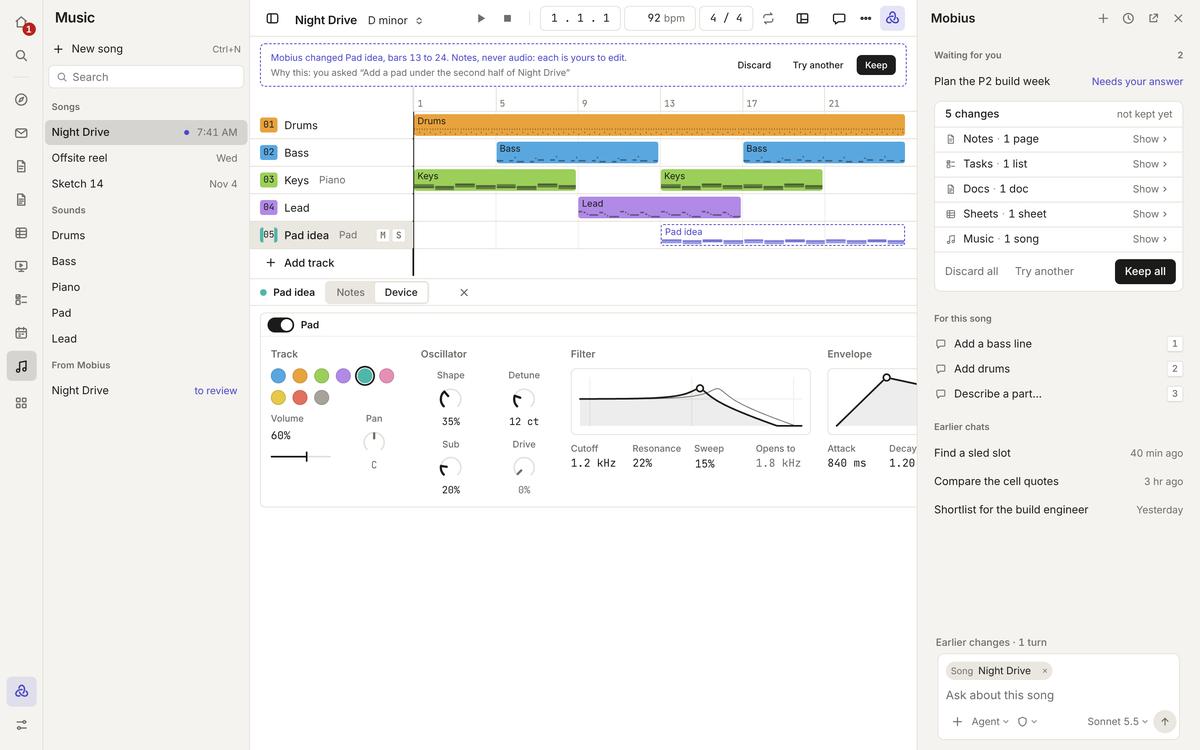
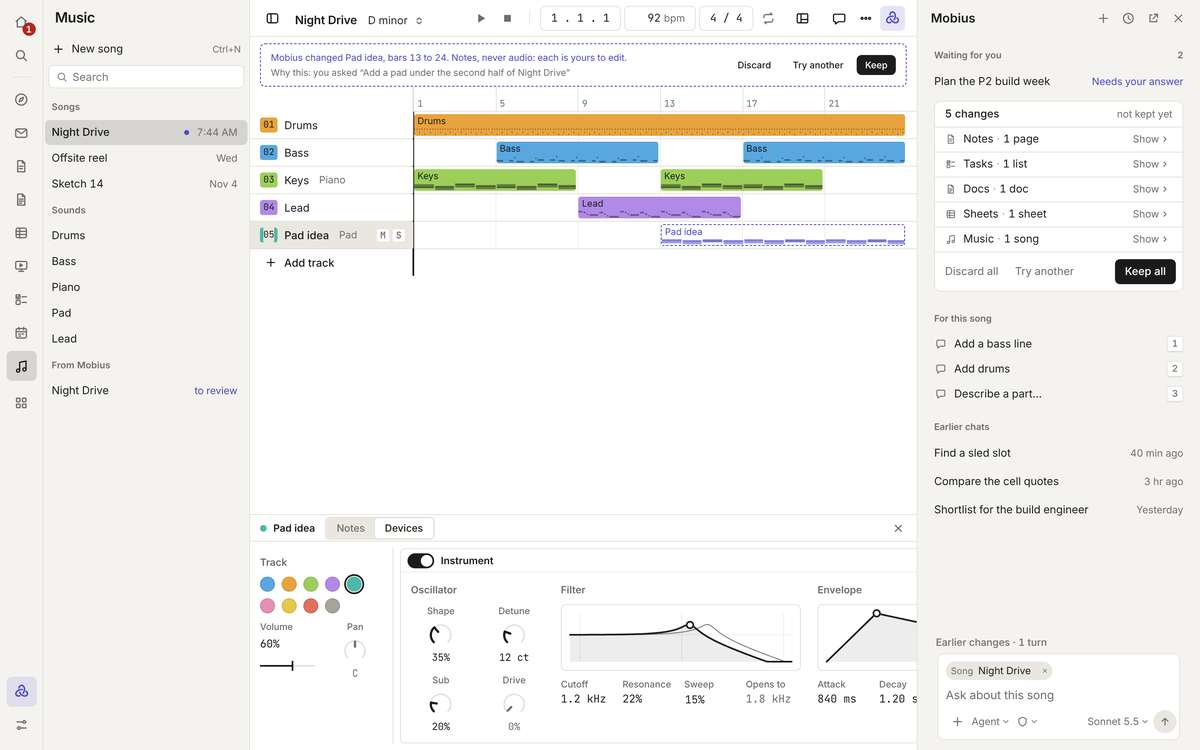
Music: design review fixes for the bottom area
Devices open at their row's height, close sits at the bar's end, the switch
reads Notes | Devices, the track's colour and level are their own strip ahead
of the instrument, and the instrument's switch bypasses it alone (instrumentOn).

Claude-Session: https://claude.ai/code/session_01VRGwo92y9AyxCvHYC61ZVd

diff --git a/apps/desktop/src/Studio.tsx b/apps/desktop/src/Studio.tsx
@@ -218,7 +218,7 @@ function EffectBlock({ effect, at, onChange, onRemove }: {
   );
 }
 
-const DETAIL_VIEWS = [{ value: 'notes', label: 'Notes' }, { value: 'device', label: 'Device' }] as const;
+const DETAIL_VIEWS = [{ value: 'notes', label: 'Notes' }, { value: 'device', label: 'Devices' }] as const;
 const DRUM_VIEWS = [{ value: 'notes', label: 'Notes' }, { value: 'steps', label: 'Steps' }] as const;
 /** The drums bottom to top, as pads and step rows read them: kick first. */
 const DRUMS_UP = [...DRUMS].reverse();
@@ -236,8 +236,8 @@ const KEY_CHOICES = KEYS.map((k) => ({ value: k, label: k }));
 const GRID_CHOICES = GRIDS.map((g) => ({ value: String(g.beats), label: g.label }));
 
 /**
- * The chosen track's devices, in the bottom area beside its notes (Shift+Tab switches): its instrument first (the
- * track's colour and level, then how it sounds), then its effects, left to right in the order the sound goes.
+ * The chosen track's devices, in the bottom area beside its notes (Shift+Tab switches): the track's own colour and
+ * level first, then its instrument, then its effects, left to right in the order the sound goes.
  */
 export function StudioDevice({ track, onTrack }: {
   track: Track | null;
@@ -250,22 +250,23 @@ export function StudioDevice({ track, onTrack }: {
   const setMany = (patch: Partial<Sound>, tag: string) => onTrack((t) => { if (t.instrument === 'drums') return; t.sound = { ...(t.sound ?? SOUND_DEFAULTS[t.instrument]), ...patch }; }, `sound:${tag}`);
   const [pad, setPad] = useState(0);
   const setKit = (k: keyof KitSound, v: number) => onTrack((t) => { if (t.instrument !== 'drums') return; t.kit = { ...(t.kit ?? KIT_DEFAULTS), [k]: v }; }, `kit:${k}`);
-  if (!track) return <div className="studio-device" aria-label="Device" role="region"><p className="studio-dev-note">Add a track from Sounds in the sidebar to set how it sounds.</p></div>;
+  if (!track) return <div className="studio-device" aria-label="Devices" role="region"><p className="studio-dev-note">Add a track from Sounds in the sidebar to set how it sounds.</p></div>;
   const fx = track.fx ?? [];
   return (
-    <div className="studio-device" aria-label="Device" role="region" style={{ '--tc': `var(--c-${track.color})` } as CSSProperties}>
-      {/* The instrument comes first in the row, as sound flows: its switch turns the whole track on or off. */}
-      <DeviceFrame className="studio-instrument" title={INSTRUMENT_NAMES[track.instrument]} index={0} on={!track.muted} onToggle={(on) => onTrack((t) => { t.muted = !on; })}
+    <div className="studio-device" aria-label="Devices" role="region" style={{ '--tc': `var(--c-${track.color})` } as CSSProperties}>
+      {/* The track's own settings lead the row: they belong to the track, whatever plays it. */}
+      <section className="studio-dev-section studio-track-strip" aria-label="Track">
+        <h4 className="studio-dev-head">Track</h4>
+        <Swatches label="Colour" value={track.color} colors={TRACK_COLOURS} names={COLOUR_NAMES} onChange={(c) => onTrack((t) => { t.color = c as TrackColour; })} />
+        <ParamGrid label="Level" columns={2}>
+          <ParamCell size="compact" label="Volume" value={track.volume} min={0} max={1} step={0.01} reset={0.8} format={(v) => `${Math.round(v * 100)}%`} onChange={(v) => onTrack((t) => { t.volume = v; }, 'volume')} />
+          <Knob label="Pan" value={track.pan} min={-1} max={1} step={0.01} reset={0} format={panText} onChange={(v) => onTrack((t) => { t.pan = v; }, 'pan')} />
+        </ParamGrid>
+      </section>
+      {/* Then the instrument, as sound flows: its switch bypasses it alone, as each effect's does (M mutes the track). */}
+      <DeviceFrame className="studio-instrument" title="Instrument" index={0} on={track.instrumentOn !== false} onToggle={(on) => onTrack((t) => { if (on) delete t.instrumentOn; else t.instrumentOn = false; })}
         actions={<Select inline quiet hideLabel label="Instrument" value={track.instrument} choices={INSTRUMENT_CHOICES} onChange={(i) => onTrack((t) => { t.instrument = i; delete t.sound; delete t.kit; delete t.pads; })} />}>
         <div className="studio-dev-cols">
-          <section className="studio-dev-section studio-dev-col" aria-label="Track">
-            <h4 className="studio-dev-head">Track</h4>
-            <Swatches label="Colour" value={track.color} colors={TRACK_COLOURS} names={COLOUR_NAMES} onChange={(c) => onTrack((t) => { t.color = c as TrackColour; })} />
-            <ParamGrid label="Level" columns={2}>
-              <ParamCell size="compact" label="Volume" value={track.volume} min={0} max={1} step={0.01} reset={0.8} format={(v) => `${Math.round(v * 100)}%`} onChange={(v) => onTrack((t) => { t.volume = v; }, 'volume')} />
-              <Knob label="Pan" value={track.pan} min={-1} max={1} step={0.01} reset={0} format={panText} onChange={(v) => onTrack((t) => { t.pan = v; }, 'pan')} />
-            </ParamGrid>
-          </section>
           {sound && base && SOUND_GROUPS.map((g) => (
             <section key={g.name} className="studio-dev-section studio-dev-col" data-graph={g.name === 'Filter' || g.name === 'Envelope' || undefined} aria-label={g.name}>
               <h4 className="studio-dev-head">{g.name}</h4>
@@ -373,6 +374,7 @@ export function StudioEditor({ songs, review }: { songs: NotesState; review?: { 
   const [box, setBox] = useState<{ b0: number; b1: number; r0: number; r1: number } | null>(null);
   // How tall the track list is, once its divider has been dragged; until then it fits its tracks.
   const [arrangeH, setArrangeH] = useState<number | null>(null);
+  const arrangeEl = useRef<HTMLDivElement>(null);
   const [scrollX, setScrollX] = useState(0);
   // A drag on the velocity lane: which notes, and how much louder or softer so far.
   const [velDrag, setVelDrag] = useState<{ these: Picked; y: number; by: number } | null>(null);
@@ -769,11 +771,14 @@ export function StudioEditor({ songs, review }: { songs: NotesState; review?: { 
   // The track list fits its tracks unless its divider was dragged, and always leaves the editor some room.
   const room = pageH - EDITOR_MIN;
   const listH = listFor;
+  // Devices open at the height of their row, and the tracks take the rest, until the divider is dragged.
+  const fitDevices = editing && detail === 'device' && arrangeH === null;
   const onDividerDown = (e: ReactPointerEvent<HTMLDivElement>) => {
     if (e.button !== 0) return;
     e.preventDefault();
     e.currentTarget.setPointerCapture(e.pointerId);
-    const y = e.clientY, h = listH;
+    // Devices open at their own height, so the list's height is read from the page rather than worked out.
+    const y = e.clientY, h = arrangeEl.current?.offsetHeight ?? listH;
     const el = e.currentTarget;
     const move = (m: PointerEvent) => setArrangeH(Math.max(96, Math.min(h + m.clientY - y, Math.max(96, room))));
     const up = () => { el.removeEventListener('pointermove', move); el.removeEventListener('pointerup', up); el.removeEventListener('pointercancel', up); };
@@ -840,7 +845,7 @@ export function StudioEditor({ songs, review }: { songs: NotesState; review?: { 
       </ToolbarControls>
       <div className="studio-main">
         {proposal}
-        <div className="studio-arrange" data-empty={song.tracks.length === 0 || undefined} style={{ ['--head' as string]: `${HEAD_W}px`, ['--bar' as string]: `${BEATS_PER_BAR * bw}px`, ...(editing ? { height: listH, flex: 'none' } : {}) }}
+        <div ref={arrangeEl} className="studio-arrange" data-empty={song.tracks.length === 0 || undefined} style={{ ['--head' as string]: `${HEAD_W}px`, ['--bar' as string]: `${BEATS_PER_BAR * bw}px`, ...(editing && !(fitDevices) ? { height: listH, flex: 'none' } : {}) }}
           onWheel={(e) => { if (!(e.ctrlKey || e.metaKey)) return; e.preventDefault(); setZoom((z) => ZOOMS[Math.max(0, Math.min(ZOOMS.length - 1, ZOOMS.indexOf(z) + (e.deltaY < 0 ? 1 : -1)))] ?? z); }}>
           <div className="studio-ruler-row">
             <div className="studio-ruler-head" />
@@ -914,8 +919,8 @@ export function StudioEditor({ songs, review }: { songs: NotesState; review?: { 
               onPointerDown={onDividerDown}
               onKeyDown={(e) => { if (e.key === 'ArrowUp' || e.key === 'ArrowDown') { e.preventDefault(); setArrangeH(Math.max(96, Math.min(listH + (e.key === 'ArrowUp' ? -24 : 24), Math.max(96, room)))); } else if (e.key === 'Home') { e.preventDefault(); setArrangeH(null); } }}
             />
-            <div className="studio-editor" data-instrument={track.instrument} style={{ '--tc': `var(--c-${track.color})` } as CSSProperties}>
-              <div className="studio-roll-bar" role="toolbar" aria-label={detail === 'notes' ? 'Notes' : 'Device'}>
+            <div className="studio-editor" data-fit={fitDevices || undefined} data-instrument={track.instrument} style={{ '--tc': `var(--c-${track.color})` } as CSSProperties}>
+              <div className="studio-roll-bar" role="toolbar" aria-label={detail === 'notes' ? 'Notes' : 'Devices'}>
                 <span className="studio-roll-title"><span className="studio-dev-dot" aria-hidden="true" />{track.name}</span>
                 <Segmented label="Show" value={detail} choices={DETAIL_VIEWS} onChange={setDetail} />
                 {detail === 'notes' && <>
@@ -934,8 +939,7 @@ export function StudioEditor({ songs, review }: { songs: NotesState; review?: { 
                   </>
                 ) : <span className="studio-hint">{drums && drumView === 'steps' ? 'Click a step to switch it on or off, Shift+click for an accent.' : 'Click to draw a note, drag to move it, drag its end to stretch it.'}</span>}
                 </>}
-                {detail === 'device' && <span className="studio-gap" />}
-                <IconButton className="studio-roll-close" label="Hide notes" icon={<Icon d="M6 6l8 8M14 6l-8 8" />} onClick={() => setEditing(false)} />
+                <IconButton className="studio-roll-close" label={detail === 'notes' ? 'Hide notes' : 'Hide devices'} icon={<Icon d="M6 6l8 8M14 6l-8 8" />} onClick={() => setEditing(false)} />
               </div>
           {detail === 'device' ? (
             <StudioDevice track={track} onTrack={(fn, tag) => setTrack(track.id, fn, tag ? `${tag}:${track.id}` : '')} />

diff --git a/apps/desktop/src/studio.css b/apps/desktop/src/studio.css
@@ -92,6 +92,8 @@
    goes. The row scrolls sideways when it's wider than the window. */
 .studio-device { flex: 1 1 0; min-height: 0; display: flex; align-items: flex-start; gap: var(--sp-2); padding: var(--sp-2) var(--sp-3); overflow: auto; font-size: var(--fs-md); background: var(--paper); }
 .studio-device > .ui-device { flex: none; }
+/* The track's own colour and level, a small strip ahead of the instrument. */
+.studio-track-strip { flex: none; align-self: stretch; align-content: start; width: calc(var(--sp-8) * 5); padding: var(--sp-2) var(--sp-3) var(--sp-2) 0; border-right: var(--hairline-w) solid var(--line); }
 .studio-dev-cols { display: flex; align-items: flex-start; gap: var(--sp-5); }
 .studio-dev-col { flex: none; width: calc(var(--sp-8) * 5); }
 .studio-dev-col[data-graph] { width: calc(var(--sp-8) * 9); }
@@ -107,12 +109,15 @@
 
 /* ---------- Piano roll ---------- */
 .studio-editor { flex: 1 1 0; min-height: 0; display: flex; flex-direction: column; }
+/* Devices at their own height: the editor wraps its row, and the arrangement above takes what is left. */
+.studio-editor[data-fit] { flex: 0 1 auto; }
+.studio-editor[data-fit] .studio-device { flex: 0 1 auto; }
 /* The divider between the tracks and the notes: a hairline with a wider grab area. */
 .studio-divider { flex: none; position: relative; height: var(--hairline-w); background: var(--line); cursor: row-resize; z-index: 5; touch-action: none; outline: none; }
 .studio-divider::before { content: ""; position: absolute; left: 0; right: 0; top: calc(-1 * var(--sp-1)); bottom: calc(-1 * var(--sp-1)); }
 .studio-divider:hover, .studio-divider:focus-visible { background: var(--ink); }
 .studio-roll-bar { flex: none; display: flex; align-items: center; gap: var(--sp-3); height: var(--row-list); padding: 0 var(--sp-2) 0 var(--sp-3); border-bottom: var(--hairline-w) solid var(--line); background: var(--paper); font-size: var(--fs-sm); }
-.studio-roll-close { margin-left: var(--sp-1); color: var(--muted); }
+.studio-roll-close { margin-left: auto; color: var(--muted); }
 .studio-roll-title { display: inline-flex; align-items: center; gap: var(--sp-2); font-weight: var(--fw-semibold); white-space: nowrap; }
 /* Where the velocity slider sits in the roll bar: its width only. */
 .studio-roll-bar .studio-velocity { width: calc(var(--sp-8) * 6); }

diff --git a/apps/desktop/src/song-format.ts b/apps/desktop/src/song-format.ts
@@ -90,7 +90,7 @@ export function freshEffectId(track: { fx?: readonly { id: string }[] }): string
 }
 
 /** A track: its instrument and notes, its colour, in the mix its `volume` (0 to 1) and `pan` (-1 left to 1 right), and its effects. */
-export interface Track { id: string; name: string; instrument: Instrument; volume: number; pan: number; muted: boolean; solo: boolean; color: TrackColour; notes: SongNote[]; sound?: Sound; kit?: KitSound; pads?: Record<number, DrumPad>; fx?: Effect[] }
+export interface Track { id: string; name: string; instrument: Instrument; volume: number; pan: number; muted: boolean; solo: boolean; color: TrackColour; /** False when the instrument is switched off (bypassed); the track's effects stay as they are. */ instrumentOn?: false; notes: SongNote[]; sound?: Sound; kit?: KitSound; pads?: Record<number, DrumPad>; fx?: Effect[] }
 export interface Song { version: 1; tempo: number; key: string; bars: number; tracks: Track[] }
 export const BEATS_PER_BAR = 4;
 export const DRUMS: { pitch: number; name: string }[] = [
@@ -153,6 +153,7 @@ export function parseSong(text: string): { song: Song } | { error: string } {
     }).sort((a, b) => a.start - b.start || a.pitch - b.pitch);
     const color = TRACK_COLOURS.includes(to.color as TrackColour) ? (to.color as TrackColour) : TRACK_COLOURS[i % (TRACK_COLOURS.length - 2)]!;
     const track: Track = { id, name: typeof to.name === 'string' && to.name ? to.name.slice(0, 60) : INSTRUMENT_NAMES[instrument], instrument, volume: num(to.volume, 0.8, 0, 1), pan: num(to.pan, 0, -1, 1), muted: to.muted === true, solo: to.solo === true, color, notes };
+    if (to.instrumentOn === false) track.instrumentOn = false;
     const so = obj(to.sound);
     if (instrument !== 'drums' && Object.keys(so).length > 0) {
       const base = SOUND_DEFAULTS[instrument];
@@ -192,6 +193,7 @@ export function writeSong(song: Song): string {
     const head: Record<string, unknown> = { id: t.id, name: t.name, instrument: t.instrument, color: t.color, volume: t.volume };
     if (t.muted) head.muted = true;
     if (t.solo) head.solo = true;
+    if (t.instrumentOn === false) head.instrumentOn = false;
     if (t.pan) head.pan = t.pan;
     if (t.sound && t.instrument !== 'drums') head.sound = t.sound;
     if (t.kit && t.instrument === 'drums') head.kit = t.kit;

diff --git a/apps/desktop/e2e/studio.spec.ts b/apps/desktop/e2e/studio.spec.ts
@@ -45,7 +45,7 @@ async function openNotes(name: string): Promise<void> {
 /** Opens a track's devices in the bottom area, with a double-click on its header. */
 async function openDevice(name: string): Promise<Locator> {
   await tracks().getByRole('listitem', { name }).locator('.studio-track-no').dblclick();
-  const device = shell().getByRole('region', { name: 'Device' });
+  const device = shell().getByRole('region', { name: 'Devices' });
   await expect(device).toBeVisible();
   return device;
 }
@@ -82,7 +82,7 @@ test('a song is tracks of notes: added by clicking, with tracks to add, mute and
   // The chosen track's devices set how it sounds, kept in the song. Shift+Tab switches the bottom area to them.
   await tracks().getByRole('listitem', { name: 'Keys' }).click({ position: { x: 6, y: 6 } });
   await shell().keyboard.press('Shift+Tab');
-  const cutoff = shell().getByRole('region', { name: 'Device' }).getByRole('slider', { name: 'Cutoff and resonance' });
+  const cutoff = shell().getByRole('region', { name: 'Devices' }).getByRole('slider', { name: 'Cutoff and resonance' });
   await cutoff.focus();
   await shell().keyboard.press('ArrowLeft');
   await expect.poll(() => (saved().tracks[0] as { sound?: { cutoff: number } }).sound?.cutoff).toBeLessThan(5000);
@@ -199,6 +199,10 @@ test('effects are added to a track, switched off and moved, kept in the song', a
   await expect.poll(() => (saved().tracks[0] as { fx?: { kind: string; on: boolean }[] }).fx?.map((e) => `${e.kind} ${e.on}`)).toEqual(['eq true', 'delay false']);
   await device.getByRole('button', { name: 'Remove Delay' }).click();
   await expect.poll(() => (saved().tracks[0] as { fx?: { kind: string }[] }).fx?.map((e) => e.kind)).toEqual(['eq']);
+  // The instrument has its own switch too: it bypasses the instrument alone, and leaves the track unmuted.
+  await device.getByRole('switch', { name: 'Instrument on' }).click();
+  await expect.poll(() => (saved().tracks[0] as { instrumentOn?: boolean }).instrumentOn).toBe(false);
+  expect((saved().tracks[0] as { muted?: boolean }).muted).toBeUndefined();
 });
 
 test('a drum kit has a pad per drum with its own settings, and its notes can be written as steps', async () => {

diff --git a/apps/desktop/src/song-format.test.ts b/apps/desktop/src/song-format.test.ts
@@ -90,6 +90,20 @@ describe('a track\'s mix and instrument settings', () => {
   });
 });
 
+describe('a track\'s instrument switch', () => {
+  it('is kept only when the instrument is switched off', () => {
+    const read = (t: object) => parseSong(JSON.stringify({ version: 1, tracks: [{ id: 't1', instrument: 'piano', notes: [], ...t }] }));
+    const off = read({ instrumentOn: false });
+    if (!('song' in off)) throw new Error('not read');
+    expect(off.song.tracks[0]!.instrumentOn).toBe(false);
+    expect(writeSong(off.song)).toContain('"instrumentOn":false');
+    const on = read({ instrumentOn: true });
+    if (!('song' in on)) throw new Error('not read');
+    expect(on.song.tracks[0]!.instrumentOn).toBeUndefined();
+    expect(writeSong(on.song)).not.toContain('instrumentOn');
+  });
+});
+
 describe('a track\'s effects', () => {
   it('keeps known effects in order, kept to their ranges, and writes them back', () => {
     const s = song(JSON.stringify({ tracks: [

diff --git a/apps/desktop/src/studio-audio.ts b/apps/desktop/src/studio-audio.ts
@@ -303,7 +303,7 @@ export function play(song: Song, fromBeat = 0, loop: Cycle | null = null, click 
       }
       for (const t of tracks) {
         const out = strips.get(t.id)!;
-        for (const n of t.notes) {
+        for (const n of t.instrumentOn === false ? [] : t.notes) {
           if (n.start < s - 1e-9 || n.start >= s + span - 1e-9) continue;
           // A note that runs past the loop's end is cut there, so it does not ring over the next time round.
           const length = cycle ? Math.min(n.length, cycle.to - n.start) : n.length;

diff --git a/docs/apps/create.md b/docs/apps/create.md
@@ -100,11 +100,11 @@ A small studio for writing songs as notes.
 - **A part from Mobius** is drawn dashed in indigo and unfilled until you keep it. Keep, Discard and Try another are in
   the bar above the tracks. The panel on the right is always Mobius.
 - **The bottom area** shows the chosen track: its notes or its devices. **Shift+Tab** switches between them (or pick
-  Notes or Device at the left of its bar), double-clicking a clip opens the notes and double-clicking a track's header
+  Notes or Devices at the left of its bar), double-clicking a clip opens the notes and double-clicking a track's header
   opens its devices.
-- **Devices** run left to right in the order the sound flows: the instrument first, then its effects. The instrument
-  has a switch to turn the track off and a menu to change it, then the track's colour, Volume and Pan, and then its
-  sound in four groups:
+- **Devices** run left to right in the order the sound flows. A small Track strip comes first, with the track's
+  colour, Volume and Pan. Then comes the instrument, with a switch that bypasses it alone (saved as `instrumentOn`) and a
+  menu at its end to change it, and its sound in four groups:
   - Oscillator: Shape (sine to saw), Detune, Sub (a sine an octave down) and Drive.
   - Filter: a curve with one point to drag, across for Cutoff and up for Resonance. Sweep, in the row of values under
     it (drag it or type), opens the filter at each note's start and closes it over the decay; the thin line and Opens to
